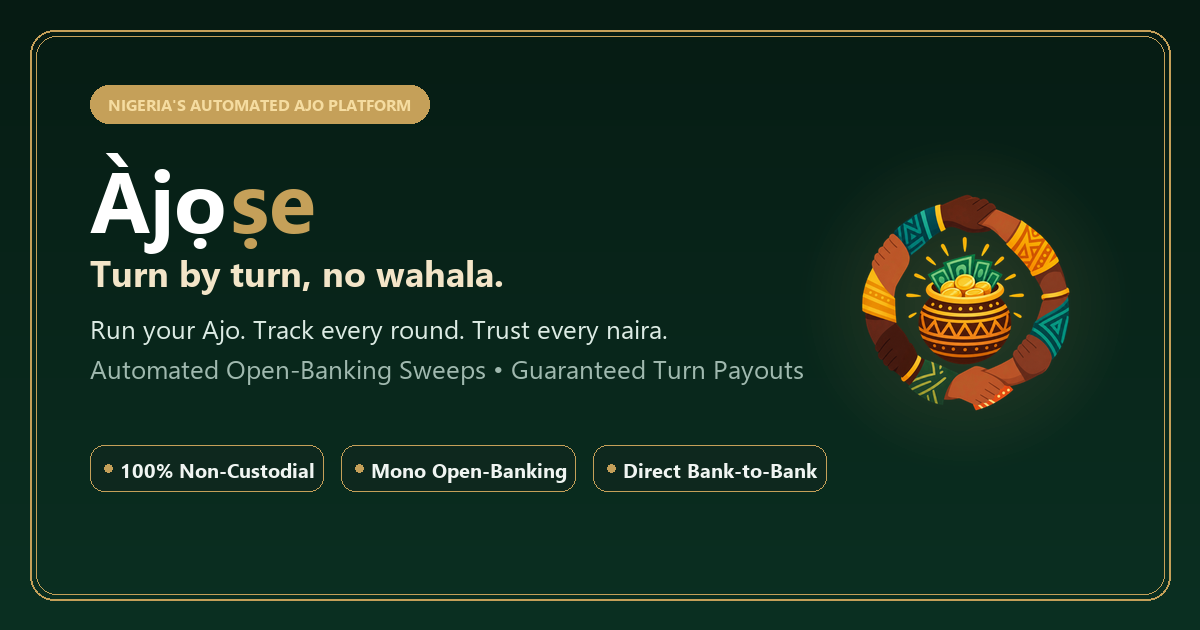
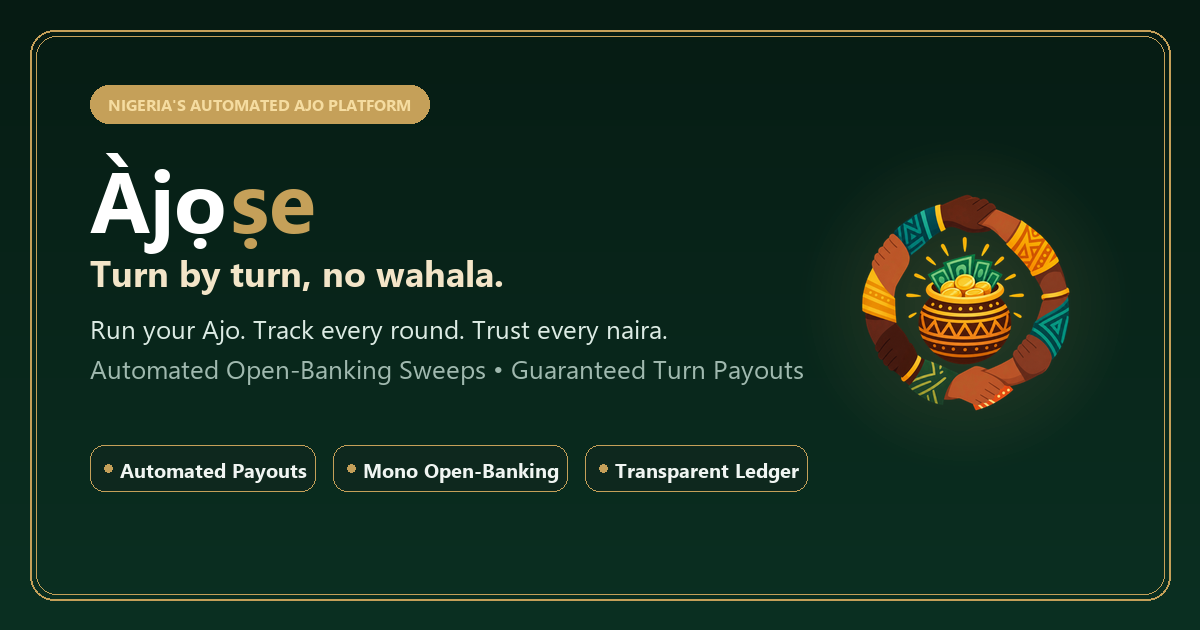
updated upsss

Changed region(s): [[0.0925, 0.7238, 0.6783, 0.7841]]

diff --git a/src/app/(marketing)/page.tsx b/src/app/(marketing)/page.tsx
@@ -104,7 +104,7 @@ export default function Home() {
       location: "Abuja, Nigeria"
     },
     {
-      quote: "We organize our quarterly business expansion circle from Ontario. The non-custodial structure is exactly what we needed to trust the platform.",
+      quote: "We organize our quarterly business expansion circle from Ontario. The automated bank debits and transparent ledgers are exactly what we needed to trust the platform.",
       author: "David O.",
       role: "Business Circle Member",
       rating: 5,
@@ -181,7 +181,7 @@ export default function Home() {
                 variants={fadeIn}
                 className="text-lg md:text-xl text-gray-300 mb-10 leading-relaxed max-w-xl"
               >
-                Run your Ajo. Track every round. Trust every naira. Ditch messy WhatsApp groups and handwritten ledgers for an automated, transparent contribution platform built for Nigerians.
+                Àjọṣe helps groups run Ajo (esusu, susu, adashi) without the chasing. Contributions are collected automatically by bank debit through Mono. Once NIBSS settles the funds, the payout is credited to the member whose turn it is. Every round is recorded on a ledger the whole group can see.
               </motion.p>
               
               <motion.div variants={fadeIn} className="flex flex-col sm:flex-row items-center gap-4">
@@ -209,17 +209,17 @@ export default function Home() {
               >
                 <div className="flex items-center gap-2">
                   <ShieldCheck className="w-4 h-4 text-[#C5A059] shrink-0" />
-                  <span><strong>CBN-Regulated Settlement</strong> via Paylode PSSP</span>
+                  <span><strong>Automatic Collection</strong> via Mono</span>
                 </div>
                 <span className="hidden sm:inline text-white/30">•</span>
                 <div className="flex items-center gap-2">
                   <Lock className="w-4 h-4 text-[#C5A059] shrink-0" />
-                  <span><strong>Mono Direct Debit</strong> &amp; <strong>T+1 Auto-Disburse</strong></span>
+                  <span><strong>Automated Payouts</strong> via NIBSS Settlement</span>
                 </div>
                 <span className="hidden sm:inline text-white/30">•</span>
                 <div className="flex items-center gap-2">
                   <Zap className="w-4 h-4 text-[#C5A059] shrink-0" />
-                  <span><strong>100% Non-Custodial</strong> Direct Pass-Through</span>
+                  <span><strong>Doesn&apos;t Hold Onto</strong> Group Funds</span>
                 </div>
               </motion.div>
             </motion.div>
@@ -317,10 +317,10 @@ export default function Home() {
             </div>
             <div className="p-5 rounded-2xl bg-white/5 border border-white/10 backdrop-blur-sm flex flex-col justify-center">
               <span className="block text-lg sm:text-xl font-black text-white font-serif mb-1.5">
-                Direct Bank-to-Bank
+                Automatic Payouts
               </span>
               <span className="text-xs text-gray-300 font-medium leading-relaxed">
-                Àjọṣe never holds your money, funds settle directly to each recipient.
+                Once settled, payouts are credited automatically to the member whose turn it is. Àjọṣe doesn&apos;t hold onto group funds.
               </span>
             </div>
             <div className="p-5 rounded-2xl bg-white/5 border border-white/10 backdrop-blur-sm flex flex-col justify-center">
@@ -641,7 +641,7 @@ export default function Home() {
 
                   <div className="pt-4 border-t border-white/10 flex items-center justify-between text-xs text-gray-300">
                     <span>Live Mono Open Banking Feed</span>
-                    <span className="text-[#C5A059] font-bold">100% Non-Custodial</span>
+                    <span className="text-[#C5A059] font-bold">Automated Settlement</span>
                   </div>
                 </div>
               </motion.div>
@@ -722,7 +722,7 @@ export default function Home() {
                         desc: "Where your contributions are held",
                         whatsapp: { text: "Admin Personal Acct", sub: "Risky phone custody with organizer", status: "bad" },
                         fintech: { text: "Corporate Omnibus", sub: "Fintech company holds the funds", status: "neutral" },
-                        ajose: { text: "100% Non-Custodial", sub: "Direct pass-through to collector", status: "good" }
+                        ajose: { text: "Automated Payouts", sub: "Doesn't hold onto group funds", status: "good" }
                       },
                       {
                         title: "Organizer Monetization",
@@ -1087,11 +1087,11 @@ export default function Home() {
             {[
               { 
                 q: "Where is our money held, and how do payouts work?", 
-                a: "Funds move securely through CBN-licensed commercial banking rails directly to the designated settlement recipient (or circle admin) on their scheduled turn date via Mono auto-disbursement (T+1). Àjọṣe operates as a non-custodial automated ledger and enforcement platform — we never hold, pool, or lock member capital in an intermediary escrow." 
+                a: "Contributions are collected automatically by bank debit through Mono on the contribution date. Once NIBSS settles the funds into Àjọṣe's wallet, the payout is credited automatically to the member whose turn it is. Àjọṣe doesn't hold onto group funds." 
               },
               { 
                 q: "How does the automated direct-debit (Mono) sweep work?", 
-                a: "When you join a circle, you securely link your verified commercial bank account through CBN-licensed Open-Banking rails (Mono). On scheduled sweep days, the exact contribution is debited automatically from your account via Mono Open-Banking. No manual bank transfers, no uploading payment screenshots, and no chasing members." 
+                a: "When you join a circle, you securely link your verified commercial bank account through Open-Banking rails (Mono). On scheduled sweep days, the exact contribution is debited automatically from your account via Mono. No manual bank transfers, no uploading payment screenshots, and no chasing members." 
               },
               { 
                 q: "Why is BVN identity verification required?", 
@@ -1131,7 +1131,7 @@ export default function Home() {
               },
               { 
                 q: "Is my personal and financial data secure?", 
-                a: "Yes. All ledger histories and participant verifications are encrypted with bank-grade AES-256 encryption. Our banking integrations run exclusively through CBN-licensed Open Banking (Mono) and licensed PSSP partners—we never view or store your banking passwords or PINs." 
+                a: "Yes. All ledger histories and participant verifications are encrypted with bank-grade AES-256 encryption. Our banking integrations run securely through Open Banking (Mono)—we never view or store your banking passwords or PINs." 
               }
             ].map((faq, i) => (
               <motion.div 

diff --git a/src/app/(marketing)/terms/page.tsx b/src/app/(marketing)/terms/page.tsx
@@ -25,18 +25,16 @@ export default function TermsOfServicePage() {
           <h2 className="text-2xl font-bold text-[#0B3022] mt-10 mb-4">1. Definitions and Interpretation</h2>
           <ul className="list-disc pl-6 space-y-2">
             <li><strong>"Ajo Pot"</strong> means the collective funds contributed by a group of Users for cyclical disbursement.</li>
-            <li><strong>"CBN"</strong> means the Central Bank of Nigeria.</li>
-            <li><strong>"Paylode"</strong> refers to Paylode Services Limited, the licensed Payment Solution Service Provider (PSSP) powering payment gateways, card debits, switching, and settlement infrastructure for the Platform.</li>
             <li><strong>"Mono"</strong> refers to our integrated open-banking and direct debit infrastructure partner.</li>
-            <li><strong>"PSSP"</strong> means Payment Solution Service Provider licensed and regulated by the Central Bank of Nigeria (CBN).</li>
+            <li><strong>"NIBSS"</strong> means the Nigeria Inter-Bank Settlement System.</li>
           </ul>
 
-          <h2 className="text-2xl font-bold text-[#0B3022] mt-10 mb-4">2. Licensing Framework and Operational Capacity</h2>
+          <h2 className="text-2xl font-bold text-[#0B3022] mt-10 mb-4">2. Operational Capacity &amp; Settlement Architecture</h2>
           <p>
-            2.1. <strong>Payment Infrastructure &amp; Licensing:</strong> Payment processing, debit switching, card transactions, and automated settlement infrastructure on Àjọṣe are powered by <strong>Paylode Services Limited</strong>, operating under a Payment Solution Service Provider (PSSP) license issued and regulated by the Central Bank of Nigeria (CBN). Ajose Technologies provides non-custodial rotating credit software. We are <strong>not</strong> a licensed commercial bank, nor are we a deposit-taking Mobile Money Operator (MMO).
+            2.1. <strong>Operational Role:</strong> Àjọṣe is a digital platform that automates contributions, turns, and payouts for savings groups. We are <strong>not</strong> a commercial deposit bank, nor do we offer banking services independently.
           </p>
           <p>
-            2.2. <strong>Fund Escrow:</strong> We do not hold, absorb, or leverage User deposits. All customer funds ("Ajo Pots") are securely routed, settled, and escrowed exclusively via regulated commercial partner banks in strict compliance with CBN client-fund segregation guidelines.
+            2.2. <strong>Fund Movement:</strong> Contributions are collected automatically by bank debit through Mono on the contribution date. Once NIBSS settles the funds into Àjọṣe&apos;s wallet, the payout is credited automatically to the member whose turn it is. Àjọṣe doesn&apos;t hold onto group funds.
           </p>
 
           <h2 className="text-2xl font-bold text-[#0B3022] mt-10 mb-4">3. Mono Direct Debit and Mandate Authorization</h2>
@@ -47,7 +45,7 @@ export default function TermsOfServicePage() {
             3.2. <strong>User Liability:</strong> You bear absolute legal and financial liability for any revoked mandates, deliberately emptied bank accounts, or otherwise willfully failed automated debits. The revocation of a Mono mandate while you have an outstanding obligation to an active Ajo cycle constitutes a material breach of this Agreement and prima facie evidence of intent to defraud the group.
           </p>
           <p>
-            3.3. <strong>Failed Auto-Debit Protocol & Non-Custodial Direct Settlement:</strong> In the event that a scheduled automated Mono direct debit sweep fails or is declined by your issuing bank (due to insufficient funds, temporary network downtime, or bank limits), <strong>you must NOT attempt to remit payment to Àjọṣe corporate or central accounts</strong>. Àjọṣe operates strictly as a non-custodial technology platform and does not accept, custody, or escrow group pool deposits. To prevent default penalties and protect your credit score, you must immediately settle the outstanding contribution by initiating a direct bank transfer to the <strong>Circle Admin's Tendered Settlement Account</strong> citing your unique circle Narration Code. Once the deposit matches on the Admin's bank statement via Mono or is confirmed by the Admin, the contribution ledger will be credited.
+            3.3. <strong>Failed Auto-Debit Protocol &amp; Manual Settlement:</strong> In the event that a scheduled automated Mono direct debit sweep fails or is declined by your issuing bank (due to insufficient funds, temporary network downtime, or bank limits), the system will retry debits and send reminder notifications. You may also settle your contribution by initiating a direct transfer to the <strong>Circle Admin&apos;s Settlement Account</strong> citing your unique circle Narration Code. Once the deposit matches on the Admin&apos;s bank statement via Mono or is confirmed by the Admin, the contribution ledger will be credited.
           </p>
 
           <h2 className="text-2xl font-bold text-[#0B3022] mt-10 mb-4">4. Default, Indemnity, and Recovery Mechanisms</h2>

diff --git a/src/app/(marketing)/privacy/page.tsx b/src/app/(marketing)/privacy/page.tsx
@@ -36,17 +36,17 @@ export default function PrivacyPolicyPage() {
             1.3. <strong>Data Processed:</strong> Upon your explicit digital mandate, we pull and process the following data streams via Mono: financial account metadata, transactional history, and electronic bank statements. We process this data strictly for the purposes of Know Your Customer (KYC) verification, algorithmic risk scoring, and monitoring the disbursement/contribution lifecycle of your Ajo groups.
           </p>
 
-          <h2 className="text-2xl font-bold text-[#0B3022] mt-10 mb-4">2. NDPA Data Minimization vs. CBN Regulatory Retention</h2>
+          <h2 className="text-2xl font-bold text-[#0B3022] mt-10 mb-4">2. NDPA Data Minimization vs. Statutory Record Retention</h2>
           <p>
-            2.1. <strong>Statutory Conflict Resolution:</strong> The NDPA 2023 mandates the principle of data minimization and the prompt deletion of personal data when the original purpose of collection has been extinguished. However, operating with our CBN-licensed Payment Solution Service Provider (PSSP) infrastructure partner <strong>Paylode Services Limited</strong>, we are concurrently bound by the Central Bank of Nigeria Anti-Money Laundering and Combating the Financing of Terrorism (AML/CFT) Regulations.
+            2.1. <strong>Statutory Conflict Resolution:</strong> The NDPA 2023 mandates the principle of data minimization and the prompt deletion of personal data when the original purpose of collection has been extinguished. However, under applicable Nigerian financial services and Anti-Money Laundering and Combating the Financing of Terrorism (AML/CFT) regulations, we are concurrently bound by mandatory record retention directives.
           </p>
           <p>
-            2.2. <strong>Retention Period:</strong> In resolving this statutory overlap, we rely on the legal obligation basis for processing under the NDPA. Consequently, regardless of account closure or withdrawal of consent, all financial transaction data, identity verification records (BVN/NIN), and mandate logs shall be securely retained in our encrypted archives for a mandatory, non-negotiable period of <strong>five (5) years</strong> post-transaction, in strict accordance with CBN directives.
+            2.2. <strong>Retention Period:</strong> In resolving this statutory overlap, we rely on the legal obligation basis for processing under the NDPA. Consequently, regardless of account closure or withdrawal of consent, all financial transaction data, identity verification records (BVN/NIN), and mandate logs shall be securely retained in our encrypted archives for a mandatory, non-negotiable period of <strong>five (5) years</strong> post-transaction, in strict accordance with statutory recordkeeping directives.
           </p>
 
           <h2 className="text-2xl font-bold text-[#0B3022] mt-10 mb-4">3. Lawful Basis and Data Subject Rights</h2>
           <p>
-            3.1. <strong>Processing Basis:</strong> We process your data based on: (a) explicit consent, (b) the performance of a contract (facilitating the Ajo cycle), and (c) compliance with a legal obligation (CBN regulations).
+            3.1. <strong>Processing Basis:</strong> We process your data based on: (a) explicit consent, (b) the performance of a contract (facilitating the Ajo cycle), and (c) compliance with applicable legal obligations.
           </p>
           <p>
             3.2. <strong>Your Rights:</strong> Subject to the limitations set forth in Section 2.2, you retain the statutory right under the NDPA to request access to, rectification of, or restriction of processing concerning your personal data. Formal requests must be directed to our Data Protection Officer (DPO).

diff --git a/src/app/(marketing)/security/page.tsx b/src/app/(marketing)/security/page.tsx
@@ -87,32 +87,32 @@ export default function SecurityPage() {
             </div>
             <div>
               <span className="text-xs font-mono font-bold uppercase tracking-wider text-[#C5A059]">
-                Regulatory Disclosure &amp; Operational Licensing
+                Platform Disclosure &amp; Operational Architecture
               </span>
               <h3 className="text-2xl font-black text-[#0B3022]">Payment Infrastructure &amp; Open Banking Rails</h3>
             </div>
           </div>
 
           <p className="text-[#1F2937]/90 leading-relaxed font-medium text-base mb-6">
-            <strong>Regulatory Disclosure:</strong> Àjọṣe is a financial technology platform, not a bank. Payment processing, fund settlement, and transactional switching infrastructure are powered by <strong>Paylode Services Limited</strong>, licensed and regulated by the Central Bank of Nigeria (CBN) as a Payment Solution Service Provider (PSSP). Automated Direct Debit sweeps and T+1 auto-disbursement payouts are powered by <strong>Mono Open Banking</strong>. All member contributions are held directly within authorized commercial bank accounts.
+            <strong>Platform Disclosure:</strong> Àjọṣe is a financial technology platform, not a bank. Contributions are collected automatically by bank debit through Mono on the contribution date. Once NIBSS settles the funds into Àjọṣe&apos;s wallet, the payout is credited automatically to the member whose turn it is. Àjọṣe doesn&apos;t hold onto group funds.
           </p>
 
           <div className="flex flex-wrap items-center gap-3 pt-6 border-t border-gray-100 text-xs font-mono">
-            <span className="inline-flex items-center gap-2 px-3.5 py-1.5 rounded-xl bg-emerald-50 text-emerald-800 border border-emerald-200 font-medium">
-              <span className="w-2 h-2 rounded-full bg-emerald-500" />
-              Paylode (CBN Licensed PSSP)
-            </span>
             <span className="inline-flex items-center gap-2 px-3.5 py-1.5 rounded-xl bg-blue-50 text-blue-800 border border-blue-200 font-medium">
               <span className="w-2 h-2 rounded-full bg-blue-500" />
               Mono Direct Debit
             </span>
+            <span className="inline-flex items-center gap-2 px-3.5 py-1.5 rounded-xl bg-emerald-50 text-emerald-800 border border-emerald-200 font-medium">
+              <span className="w-2 h-2 rounded-full bg-emerald-500" />
+              NIBSS Settlement
+            </span>
             <span className="inline-flex items-center gap-2 px-3.5 py-1.5 rounded-xl bg-purple-50 text-purple-800 border border-purple-200 font-medium">
               <span className="w-2 h-2 rounded-full bg-purple-500" />
-              Mono T+1 Auto-Disburse
+              Automated Payouts
             </span>
             <span className="inline-flex items-center gap-2 px-3.5 py-1.5 rounded-xl bg-amber-50 text-amber-800 border border-amber-200 font-medium">
               <span className="w-2 h-2 rounded-full bg-amber-500" />
-              Non-Custodial Architecture
+              Transparent Ledger
             </span>
           </div>
         </div>

diff --git a/src/components/MarketingFooter.tsx b/src/components/MarketingFooter.tsx
@@ -23,7 +23,7 @@ export function MarketingFooter() {
               &ldquo;Turn by turn, no wahala.&rdquo;
             </p>
             <p className="text-gray-300 leading-relaxed max-w-sm">
-              Ajose is the digital platform that runs your Ajo group, collecting contributions, tracking every round, and making sure everyone gets their turn. Turn by turn, no wahala.
+              Àjọṣe is a digital Ajo platform that automates contributions, turns and payouts for savings groups. Turn by turn, no wahala.
             </p>
           </div>
 
@@ -76,17 +76,17 @@ export function MarketingFooter() {
             <p>© {new Date().getFullYear()} Àjọṣe Technologies Ltd. All rights reserved.</p>
             <span className="hidden sm:inline text-white/20">•</span>
             <div className="flex items-center gap-2">
-              <span className="inline-flex items-center gap-1.5 px-2.5 py-0.5 rounded-md bg-emerald-500/10 border border-emerald-500/20 text-emerald-400 font-mono text-[11px] font-medium">
-                <span className="w-1.5 h-1.5 rounded-full bg-emerald-400" />
-                Paylode (CBN PSSP)
-              </span>
               <span className="inline-flex items-center gap-1.5 px-2.5 py-0.5 rounded-md bg-blue-500/10 border border-blue-500/20 text-blue-400 font-mono text-[11px] font-medium">
                 <span className="w-1.5 h-1.5 rounded-full bg-blue-400" />
                 Mono Direct Debit
               </span>
+              <span className="inline-flex items-center gap-1.5 px-2.5 py-0.5 rounded-md bg-emerald-500/10 border border-emerald-500/20 text-emerald-400 font-mono text-[11px] font-medium">
+                <span className="w-1.5 h-1.5 rounded-full bg-emerald-400" />
+                NIBSS Settlement
+              </span>
               <span className="inline-flex items-center gap-1.5 px-2.5 py-0.5 rounded-md bg-purple-500/10 border border-purple-500/20 text-purple-400 font-mono text-[11px] font-medium">
                 <span className="w-1.5 h-1.5 rounded-full bg-purple-400" />
-                Mono T+1 Auto-Disburse
+                Automated Payouts
               </span>
             </div>
           </div>

diff --git a/src/components/MakeContributionClient.tsx b/src/components/MakeContributionClient.tsx
@@ -266,7 +266,7 @@ export function MakeContributionClient({
                 <Landmark className="h-5 w-5 text-[#0B3022]" />
               </div>
               <h2 className="text-lg font-bold text-[#0B3022]">Contribution Turn {currentTurn}</h2>
-              <p className="text-[#1F2937]/70 text-xs font-medium">Non-Custodial Direct Settlement</p>
+              <p className="text-[#1F2937]/70 text-xs font-medium">Automated Settlement</p>
             </div>
 
             <div className="p-5 overflow-y-auto space-y-4">
@@ -340,7 +340,7 @@ export function MakeContributionClient({
                         <div className="bg-amber-50 border border-amber-300 rounded-xl p-3 flex items-start gap-2.5 text-xs text-amber-900 animate-in fade-in">
                           <AlertCircle className="h-4 w-4 text-amber-600 shrink-0 mt-0.5" />
                           <p>
-                            <strong>Auto-debit was declined.</strong> Àjọṣe is non-custodial and never holds group pool funds. Please complete your contribution by transferring directly to the <strong>Admin&apos;s Settlement Account</strong> below using your unique narration code.
+                            <strong>Auto-debit was declined.</strong> Àjọṣe doesn&apos;t hold onto group funds. Please complete your contribution by transferring directly to the <strong>Admin&apos;s Settlement Account</strong> below using your unique narration code.
                           </p>
                         </div>
                       )}

diff --git a/src/app/dashboard/groups/create/page.tsx b/src/app/dashboard/groups/create/page.tsx
@@ -378,13 +378,13 @@ export default function CreateGroupPage() {
           {step === 2 && (
             <div className="space-y-6 animate-in fade-in duration-300">
               
-              {/* Regulatory Notice Banner */}
+              {/* Platform Notice Banner */}
               <div className="bg-[#0B3022]/5 border border-[#0B3022]/15 rounded-xl p-4 flex gap-3 text-sm text-[#0B3022]">
                 <ShieldCheck className="h-6 w-6 text-[#C5A059] flex-shrink-0 mt-0.5" />
                 <div className="space-y-1">
-                  <p className="font-bold">Non-Custodial Direct Pass-Through Architecture</p>
+                  <p className="font-bold">Automated Collection &amp; Payout Architecture</p>
                   <p className="text-[#1F2937]/80 text-xs leading-relaxed">
-                    Àjọṣe is a software platform, not a deposit-taking bank. We do not hold pooled money. Each admin tenders a designated settlement bank account. Members' contributions are paid directly into this account, and scheduled payouts are automatically debited from this account to turn beneficiaries.
+                    Contributions are collected automatically by bank debit through Mono on the contribution date. Once NIBSS settles the funds into Àjọṣe&apos;s wallet, the payout is credited automatically to the member whose turn it is. Àjọṣe doesn&apos;t hold onto group funds.
                   </p>
                 </div>
               </div>

diff --git a/src/components/RulesModal.tsx b/src/components/RulesModal.tsx
@@ -41,10 +41,10 @@ export function RulesModal() {
               <div className="space-y-1.5">
                 <h3 className="font-bold text-[#0B3022] flex items-center gap-2 text-sm">
                   <Landmark className="h-4 w-4 text-[#C5A059]" />
-                  1. Non-Custodial Pass-Through Architecture
+                  1. Automated Collection &amp; Payout Architecture
                 </h3>
                 <p>
-                  Àjọṣe is a licensed technology provider and is <strong>not a commercial deposit bank</strong>. We do not hold user money. Each Admin tenders an authorized settlement bank account. Contributions are deposited directly into this account and rotational payouts are automatically debited from it. If an auto-debit fails, manual bank transfers must be sent directly to the Admin&apos;s settlement account with your unique narration code, never to Àjọṣe.
+                  Contributions are collected automatically by bank debit through Mono on the contribution date. Once NIBSS settles the funds into Àjọṣe&apos;s wallet, the payout is credited automatically to the member whose turn it is. Àjọṣe doesn&apos;t hold onto group funds. If an auto-debit fails, manual bank transfers must be sent directly to the Admin&apos;s settlement account with your unique narration code.
                 </p>
               </div>
 

diff --git a/src/app/signup/page.tsx b/src/app/signup/page.tsx
@@ -871,7 +871,7 @@ export default function SignupPage() {
                                   </button>
                                 </div>
                                 <p className="text-[11px] text-amber-800 bg-amber-50/80 p-2 rounded-lg border border-amber-200/60 leading-relaxed">
-                                  🔒 <strong>CBN Security Rule:</strong> Mono &amp; NIBSS only deliver OTPs to numbers already registered on your BVN at your bank. If no secondary number exists on file, NIBSS returns <em>&quot;Alternate number not available&quot;</em>. In that case, use your <strong>Primary BVN Phone</strong> or <strong>Verify Instantly with BVN Name Match</strong> below.
+                                  🔒 <strong>NIBSS Security Rule:</strong> Mono &amp; NIBSS only deliver OTPs to numbers already registered on your BVN at your bank. If no secondary number exists on file, NIBSS returns <em>&quot;Alternate number not available&quot;</em>. In that case, use your <strong>Primary BVN Phone</strong> or <strong>Verify Instantly with BVN Name Match</strong> below.
                                 </p>
                               </div>
                             </div>

diff --git a/src/app/invite/[id]/page.tsx b/src/app/invite/[id]/page.tsx
@@ -918,10 +918,10 @@ export default function InvitePage(props: {
               <div className="space-y-2">
                 <div className="flex items-center gap-2 text-emerald-400 font-bold text-sm">
                   <ShieldCheck className="h-4 w-4" />
-                  1. Non-Custodial Direct Pass-Through Architecture
+                  1. Automated Collection &amp; Payout Architecture
                 </div>
                 <p>
-                  Àjọṣe operates under Nigerian payment processing frameworks and is <strong>not a commercial deposit bank</strong>. We do not hold, leverage, or escrow pooled funds. All member contributions pass directly through the Group Admin's designated settlement bank account and are automatically debited directly to the receiving member on their scheduled payout turn.
+                  Contributions are collected automatically by bank debit through Mono on the contribution date. Once NIBSS settles the funds into Àjọṣe&apos;s wallet, the payout is credited automatically to the member whose turn it is. Àjọṣe doesn&apos;t hold onto group funds.
                 </p>
               </div>
 

diff --git a/src/app/dashboard/support/page.tsx b/src/app/dashboard/support/page.tsx
@@ -6,7 +6,7 @@ export default function SupportPage() {
   const faqs = [
     {
       q: "Where is our money held, and how do payouts arrive?",
-      a: "Contributions move directly via automated Mono direct-debit sweeps and licensed payment processors into the verified settlement account of the turn recipient. We operate as a non-custodial automated ledger and enforcement platform — we never hold or escrow member funds."
+      a: "Contributions are collected automatically by bank debit through Mono. Once NIBSS settles the funds into Àjọṣe's wallet, the payout is credited automatically to the member whose turn it is. Àjọṣe doesn't hold onto group funds."
     },
     {
       q: "How does the automated direct-debit (Mono) sweep work?",

diff --git a/src/components/InteractiveRevenueCalculator.tsx b/src/components/InteractiveRevenueCalculator.tsx
@@ -163,7 +163,7 @@ export function InteractiveRevenueCalculator({
             </div>
             <div className="flex items-center gap-2">
               <CheckCircle2 className="w-4 h-4 text-[#C5A059] shrink-0" />
-              <span>Zero Cash Handling / Safe Escrow</span>
+              <span>Zero Cash Handling / Automated Payouts</span>
             </div>
           </div>
 
@@ -218,7 +218,7 @@ export function InteractiveRevenueCalculator({
             </Link>
             
             <p className="text-[11px] text-white/60">
-              No subscription fee &bull; Free to create &bull; Zero risk non-custodial
+              No subscription fee &bull; Free to create &bull; Automated settlement
             </p>
           </div>
 
